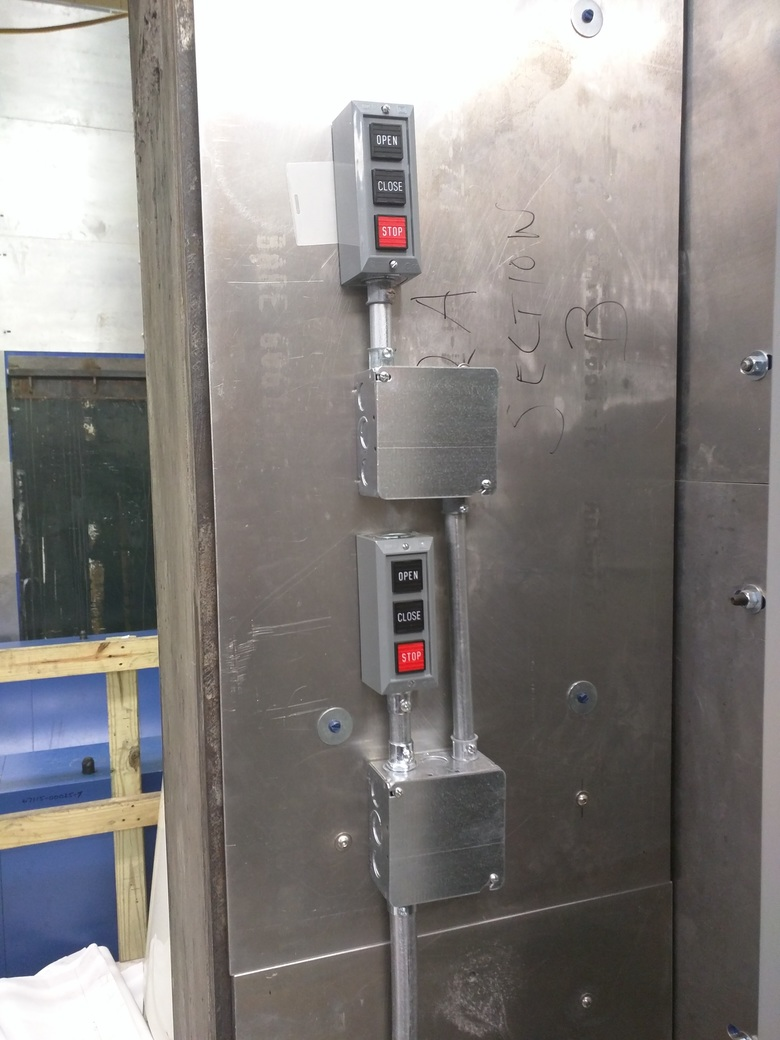
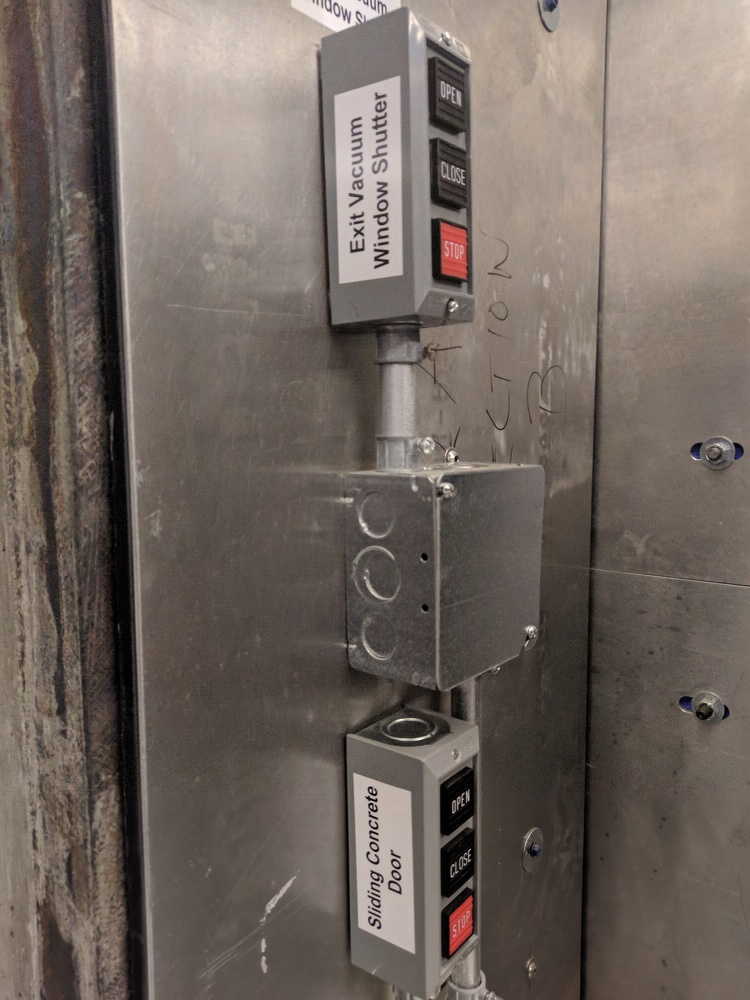
Update SHMS Shutter information and button pictures

diff --git a/src/detectors/shms.tex b/src/detectors/shms.tex
@@ -63,7 +63,7 @@ under vacuum.
 \caption{\label{fig:barndoorcontrol}SHMS barn door controls.  The left
   picture shows the controls located in electronics hut.  The bottom
   buttons control the barn door and the top buttons control the SHMS
-  vacuum shutter.  The right picture shows the barn door controls
+  vacuum extension shutter.  The right picture shows the barn door controls
   located inside the detector hut.}
 \end{center}
 \end{figure}
@@ -74,16 +74,16 @@ As described in section~\ref{sec:shmswindows}, there is a large thin
 vacuum window at the end of the vacuum pipe in the SHMS detector hut.
 Because of
 the considerable stored energy in such a large vacuum volume, it is
-necessary to protect personnel working in the HMS shield house from
-the possibiliity of a catastrophic failure of this vacuum. 
+necessary to protect the window from accidental puncture by
+tools and equipment.
 If
 the Noble Gas Cherenkov detector is installed, protection is provided
 by that detector.
 If the Noble Gas Cherenkov is not installed, a vacuum
 extension pipe, with a window further into the detector hut will be
 used.  In this case, the window will be covered by a shutter to
-protect personnel working in the SHMS detector hut while the
-spectrometer is under vacuum.  This shutter must be in place whenever
+protect the window from being punctured by tools.
+This shutter must be in place whenever the spectrometer is under vacuum and
 the ``barn door'' is open.  The shutter is operated by using the top
 set of buttons shown in Fig.~\ref{fig:barndoorcontrol}.  Indicator
 lights (not yet installed) show whether the shutter is open or closed.
